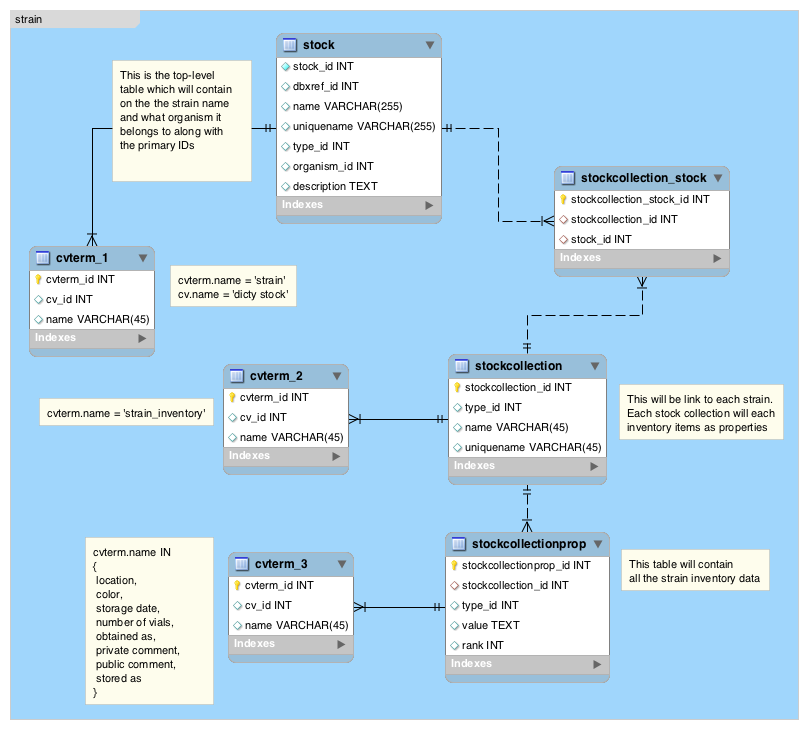
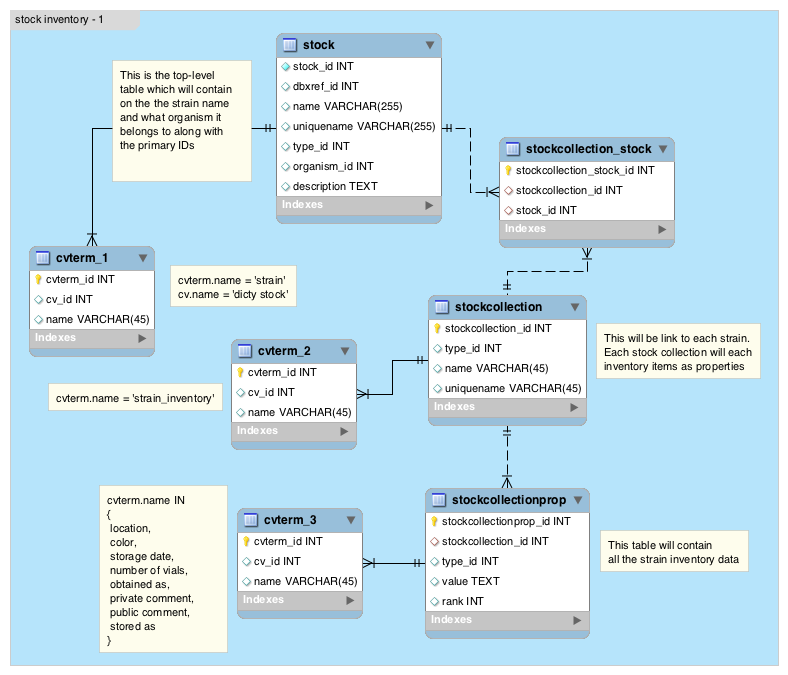
Updated doc for stock inventory data model

Changed region(s): [[0.0, 0.0, 0.9746, 0.9644], [0.0914, 0.7156, 0.4873, 0.9956], [0.6091, 0.1867, 0.9137, 0.4044]]

diff --git a/data/models/stock_inventory.md b/data/models/stock_inventory.md
@@ -1,14 +1,35 @@
 ## Data model for stock inventory
 
 ### Rationale
-Inventory is not a biological property of a `stock`. One `stock` can have multiple inventories. In our case, the maximum inventories a `stock` has is 5. `stockcollection` is the stock center which dictributes the stock(strains). In our case, we have only one `stockcollection` - _'dicty stock center'_. [Chado](http://gmod.org/wiki/Chado_Tables#Table:_stock) schema does not directly support storing inventory data.  
+Inventory is not a biological property of the `stock`. `stock` can have multiple inventories. In our case, the maximum number of inventories a `stock` has is 5. `stockcollection` is the stock center which dictributes the stock(strains). In our case, we have only one `stockcollection` - _'dicty stock center'_. 
+
+[Chado](http://gmod.org/wiki/Chado_Tables#Table:_stock) schema does not directly support storing inventory data.  
 
 ### Data Models
 We propose 2 models to store the inventory data in Chado schema.
-	1. Inventory is the property of the `stockcollection`
-	2. Inventory is the property of the `stock`
+
+1. Inventory is the property of the `stockcollection`
+2. Inventory is the property of the `stock`
 
 #### Model-1
-
+Here inventory data is saved in `stockcollectionprop` table. `stockcollection` will contain
+```perl
+{
+	name => 'dicty stock center',
+	uniquename => <DBS ID>,
+	type_id => <WHERE cvterm.name = 'strain_inventory'>
+}
+```
+Each stock (strain|plasmid) will have a `stockcollection` entry. If one stock has multiple inventories, they will be grouped by `rank` in the `stockcollectionprop` table.
+![alt text](stock_inventory_v1.png "Stock Inventory Data Model - 1")
 
 #### Model-2
+In this case, the inventory is the property of the `stock` itself. There will be only two `stockcollection` entries
+```perl
+{
+	uniquename => 'dicty stock center'
+	type_id => <WHERE cvterm.name IN ('strain_inventory', 'plasmid_inventory')>
+}
+```
+All the strains will have the same `stockcollection`, and all the plasmids will have a single `stockcollection`. The inventory data will be saved in the `stockprop` table.
+![alt text](stock_inventory_v2.png "Stock Inventory Data Model - 2")
